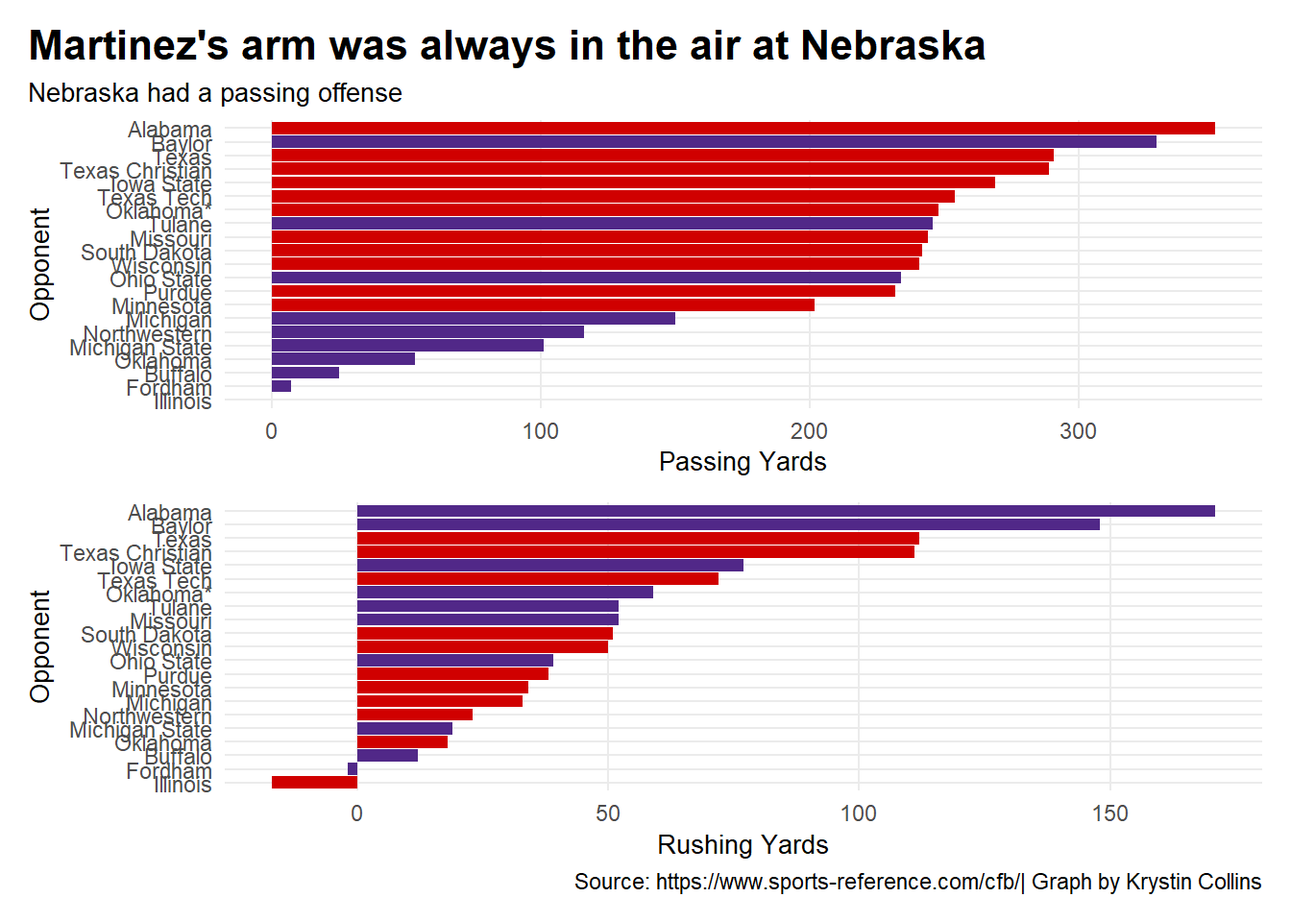
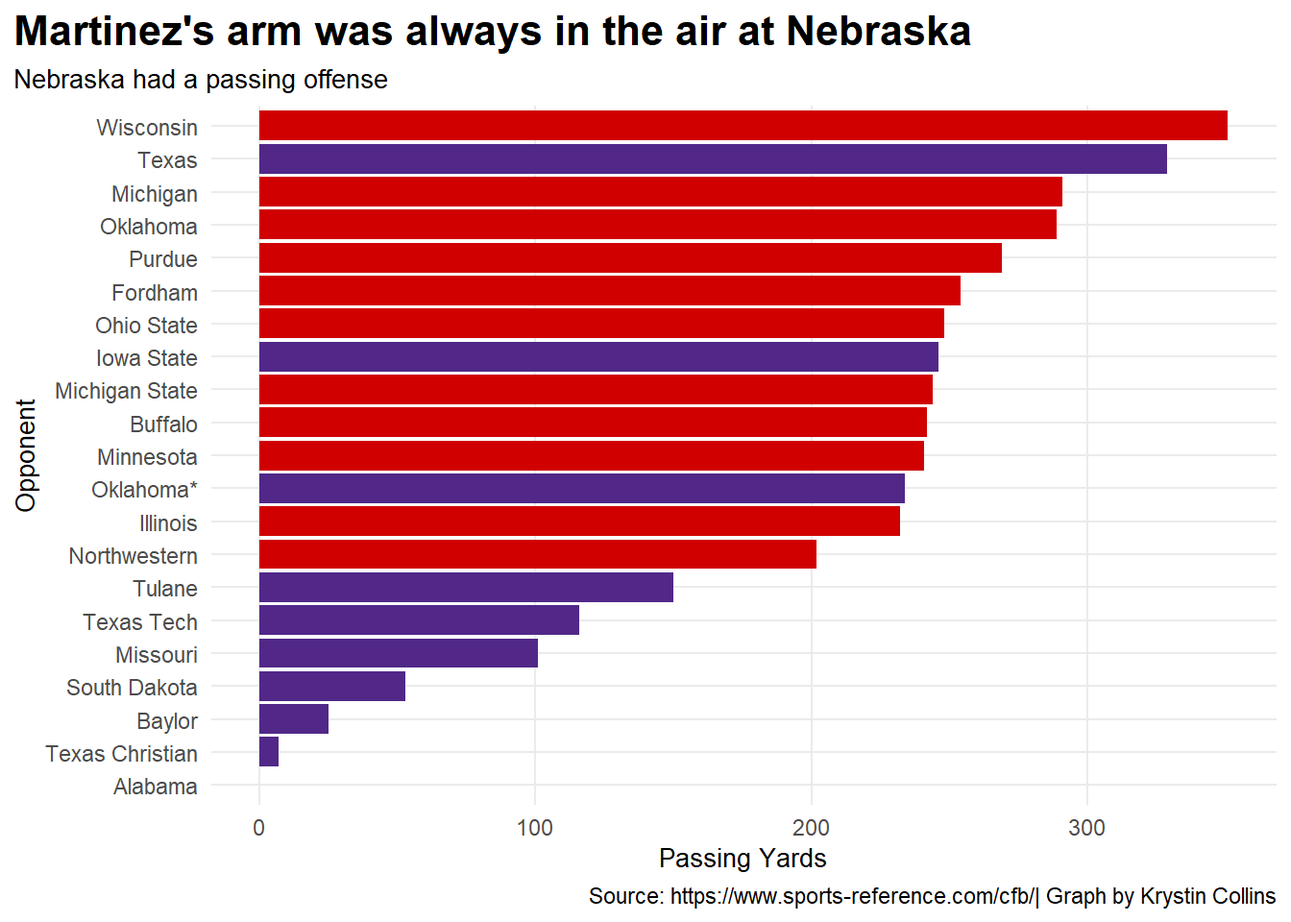
send

diff --git a/posts/adrians-move-from-nebraska/index.html b/posts/adrians-move-from-nebraska/index.html
@@ -274,18 +274,18 @@ pre > code.sourceCode > span > a:first-child::before { text-decoration: underlin
 <span id="cb2-9"><a href="#cb2-9" aria-hidden="true" tabindex="-1"></a>  <span class="fu">filter</span>(</span>
 <span id="cb2-10"><a href="#cb2-10" aria-hidden="true" tabindex="-1"></a>    School <span class="sc">==</span> <span class="st">"Nebraska"</span>)</span>
 <span id="cb2-11"><a href="#cb2-11" aria-hidden="true" tabindex="-1"></a></span>
-<span id="cb2-12"><a href="#cb2-12" aria-hidden="true" tabindex="-1"></a>passingbar <span class="ot">&lt;-</span><span class="fu">ggplot</span>() <span class="sc">+</span></span>
+<span id="cb2-12"><a href="#cb2-12" aria-hidden="true" tabindex="-1"></a><span class="fu">ggplot</span>() <span class="sc">+</span></span>
 <span id="cb2-13"><a href="#cb2-13" aria-hidden="true" tabindex="-1"></a>  <span class="fu">geom_bar</span>(</span>
 <span id="cb2-14"><a href="#cb2-14" aria-hidden="true" tabindex="-1"></a>    <span class="at">data =</span> combined, <span class="fu">aes</span>(<span class="at">x =</span> <span class="fu">reorder</span>(Opponent, PassYds), <span class="at">weight =</span> PassYds), <span class="at">fill=</span><span class="st">"#512888"</span>) <span class="sc">+</span></span>
-<span id="cb2-15"><a href="#cb2-15" aria-hidden="true" tabindex="-1"></a>  <span class="fu">scale_x_discrete</span>(<span class="at">labels =</span> combined<span class="sc">$</span>Opponent) <span class="sc">+</span></span>
-<span id="cb2-16"><a href="#cb2-16" aria-hidden="true" tabindex="-1"></a>  <span class="fu">geom_bar</span>(</span>
-<span id="cb2-17"><a href="#cb2-17" aria-hidden="true" tabindex="-1"></a>    <span class="at">data =</span> bar21, <span class="fu">aes</span>(<span class="at">x =</span> <span class="fu">reorder</span>(Opponent, PassYds), <span class="at">weight =</span> PassYds), <span class="at">fill=</span><span class="st">"#d00000"</span>) <span class="sc">+</span></span>
-<span id="cb2-18"><a href="#cb2-18" aria-hidden="true" tabindex="-1"></a>  <span class="fu">coord_flip</span>() <span class="sc">+</span></span>
-<span id="cb2-19"><a href="#cb2-19" aria-hidden="true" tabindex="-1"></a>  <span class="fu">labs</span>(</span>
-<span id="cb2-20"><a href="#cb2-20" aria-hidden="true" tabindex="-1"></a>    <span class="at">title =</span> <span class="st">"Martinez's arm was always in the air at Nebraska"</span>, </span>
-<span id="cb2-21"><a href="#cb2-21" aria-hidden="true" tabindex="-1"></a>    <span class="at">subtitle =</span> <span class="st">"Nebraska had a passing offense"</span>,</span>
-<span id="cb2-22"><a href="#cb2-22" aria-hidden="true" tabindex="-1"></a>    <span class="at">x =</span> <span class="st">"Opponent"</span>, </span>
-<span id="cb2-23"><a href="#cb2-23" aria-hidden="true" tabindex="-1"></a>    <span class="at">y =</span> <span class="st">"Passing Yards"</span></span>
+<span id="cb2-15"><a href="#cb2-15" aria-hidden="true" tabindex="-1"></a>  <span class="fu">geom_bar</span>(</span>
+<span id="cb2-16"><a href="#cb2-16" aria-hidden="true" tabindex="-1"></a>    <span class="at">data =</span> bar21, <span class="fu">aes</span>(<span class="at">x =</span> <span class="fu">reorder</span>(Opponent, PassYds), <span class="at">weight =</span> PassYds), <span class="at">fill=</span><span class="st">"#d00000"</span>) <span class="sc">+</span></span>
+<span id="cb2-17"><a href="#cb2-17" aria-hidden="true" tabindex="-1"></a>  <span class="fu">coord_flip</span>() <span class="sc">+</span></span>
+<span id="cb2-18"><a href="#cb2-18" aria-hidden="true" tabindex="-1"></a>  <span class="fu">labs</span>(</span>
+<span id="cb2-19"><a href="#cb2-19" aria-hidden="true" tabindex="-1"></a>    <span class="at">title =</span> <span class="st">"Martinez's arm was always in the air at Nebraska"</span>, </span>
+<span id="cb2-20"><a href="#cb2-20" aria-hidden="true" tabindex="-1"></a>    <span class="at">subtitle =</span> <span class="st">"Nebraska had a passing offense"</span>,</span>
+<span id="cb2-21"><a href="#cb2-21" aria-hidden="true" tabindex="-1"></a>    <span class="at">x =</span> <span class="st">"Opponent"</span>, </span>
+<span id="cb2-22"><a href="#cb2-22" aria-hidden="true" tabindex="-1"></a>    <span class="at">y =</span> <span class="st">"Passing Yards"</span>,</span>
+<span id="cb2-23"><a href="#cb2-23" aria-hidden="true" tabindex="-1"></a>    <span class="at">caption =</span> <span class="st">"Source: https://www.sports-reference.com/cfb/| Graph by Krystin Collins"</span></span>
 <span id="cb2-24"><a href="#cb2-24" aria-hidden="true" tabindex="-1"></a>  ) <span class="sc">+</span>  </span>
 <span id="cb2-25"><a href="#cb2-25" aria-hidden="true" tabindex="-1"></a>  <span class="fu">theme_minimal</span>() <span class="sc">+</span></span>
 <span id="cb2-26"><a href="#cb2-26" aria-hidden="true" tabindex="-1"></a>  <span class="fu">theme</span>(</span>
@@ -294,29 +294,7 @@ pre > code.sourceCode > span > a:first-child::before { text-decoration: underlin
 <span id="cb2-29"><a href="#cb2-29" aria-hidden="true" tabindex="-1"></a>    <span class="at">axis.title =</span> <span class="fu">element_text</span>(<span class="at">size =</span> <span class="dv">10</span>),</span>
 <span id="cb2-30"><a href="#cb2-30" aria-hidden="true" tabindex="-1"></a>    <span class="at">panel.grid.minor =</span> <span class="fu">element_blank</span>(),</span>
 <span id="cb2-31"><a href="#cb2-31" aria-hidden="true" tabindex="-1"></a>    <span class="at">plot.title.position =</span> <span class="st">"plot"</span></span>
-<span id="cb2-32"><a href="#cb2-32" aria-hidden="true" tabindex="-1"></a>  )</span>
-<span id="cb2-33"><a href="#cb2-33" aria-hidden="true" tabindex="-1"></a></span>
-<span id="cb2-34"><a href="#cb2-34" aria-hidden="true" tabindex="-1"></a>rushingbar <span class="ot">&lt;-</span> <span class="fu">ggplot</span>() <span class="sc">+</span></span>
-<span id="cb2-35"><a href="#cb2-35" aria-hidden="true" tabindex="-1"></a>  <span class="fu">geom_bar</span>(</span>
-<span id="cb2-36"><a href="#cb2-36" aria-hidden="true" tabindex="-1"></a>    <span class="at">data =</span> combined, <span class="fu">aes</span>(<span class="at">x =</span> <span class="fu">reorder</span>(Opponent, RushYds), <span class="at">weight =</span> RushYds), <span class="at">fill=</span><span class="st">"#512888"</span>) <span class="sc">+</span></span>
-<span id="cb2-37"><a href="#cb2-37" aria-hidden="true" tabindex="-1"></a>  <span class="fu">scale_x_discrete</span>(<span class="at">labels =</span> combined<span class="sc">$</span>Opponent) <span class="sc">+</span></span>
-<span id="cb2-38"><a href="#cb2-38" aria-hidden="true" tabindex="-1"></a>  <span class="fu">geom_bar</span>(</span>
-<span id="cb2-39"><a href="#cb2-39" aria-hidden="true" tabindex="-1"></a>    <span class="at">data =</span> bar21, <span class="fu">aes</span>(<span class="at">x =</span> <span class="fu">reorder</span>(Opponent, RushYds), <span class="at">weight =</span> RushYds), <span class="at">fill=</span><span class="st">"#d00000"</span>) <span class="sc">+</span></span>
-<span id="cb2-40"><a href="#cb2-40" aria-hidden="true" tabindex="-1"></a>  <span class="fu">coord_flip</span>() <span class="sc">+</span></span>
-<span id="cb2-41"><a href="#cb2-41" aria-hidden="true" tabindex="-1"></a>  <span class="fu">labs</span>(</span>
-<span id="cb2-42"><a href="#cb2-42" aria-hidden="true" tabindex="-1"></a>    <span class="at">x =</span> <span class="st">"Opponent"</span>, </span>
-<span id="cb2-43"><a href="#cb2-43" aria-hidden="true" tabindex="-1"></a>    <span class="at">y =</span> <span class="st">"Rushing Yards"</span>,</span>
-<span id="cb2-44"><a href="#cb2-44" aria-hidden="true" tabindex="-1"></a>    <span class="at">caption =</span> <span class="st">"Source: https://www.sports-reference.com/cfb/| Graph by Krystin Collins"</span></span>
-<span id="cb2-45"><a href="#cb2-45" aria-hidden="true" tabindex="-1"></a>  ) <span class="sc">+</span>  </span>
-<span id="cb2-46"><a href="#cb2-46" aria-hidden="true" tabindex="-1"></a>  <span class="fu">theme_minimal</span>() <span class="sc">+</span></span>
-<span id="cb2-47"><a href="#cb2-47" aria-hidden="true" tabindex="-1"></a>  <span class="fu">theme</span>(</span>
-<span id="cb2-48"><a href="#cb2-48" aria-hidden="true" tabindex="-1"></a>    <span class="at">plot.title =</span> <span class="fu">element_text</span>(<span class="at">size =</span> <span class="dv">16</span>, <span class="at">face =</span> <span class="st">"bold"</span>),</span>
-<span id="cb2-49"><a href="#cb2-49" aria-hidden="true" tabindex="-1"></a>    <span class="at">plot.subtitle =</span> <span class="fu">element_text</span>(<span class="at">size =</span> <span class="dv">10</span>),</span>
-<span id="cb2-50"><a href="#cb2-50" aria-hidden="true" tabindex="-1"></a>    <span class="at">axis.title =</span> <span class="fu">element_text</span>(<span class="at">size =</span> <span class="dv">10</span>),</span>
-<span id="cb2-51"><a href="#cb2-51" aria-hidden="true" tabindex="-1"></a>    <span class="at">panel.grid.minor =</span> <span class="fu">element_blank</span>()</span>
-<span id="cb2-52"><a href="#cb2-52" aria-hidden="true" tabindex="-1"></a>  )</span>
-<span id="cb2-53"><a href="#cb2-53" aria-hidden="true" tabindex="-1"></a></span>
-<span id="cb2-54"><a href="#cb2-54" aria-hidden="true" tabindex="-1"></a>(passingbar <span class="sc">/</span> rushingbar)</span></code><button title="Copy to Clipboard" class="code-copy-button"><i class="bi"></i></button></pre></div>
+<span id="cb2-32"><a href="#cb2-32" aria-hidden="true" tabindex="-1"></a>  )</span></code><button title="Copy to Clipboard" class="code-copy-button"><i class="bi"></i></button></pre></div>
 </details>
 <div class="cell-output-display">
 <div>
@@ -326,55 +304,89 @@ pre > code.sourceCode > span > a:first-child::before { text-decoration: underlin
 </div>
 </div>
 </div>
-<p>Now let’s look at who was the better team overall…</p>
+<p>Nebraska liked to throw the ball on offensive. Martinez threw for 351 yards again Alabama in game</p>
 <div class="cell">
 <details class="code-fold">
 <summary>Code</summary>
-<div class="sourceCode cell-code" id="cb3"><pre class="sourceCode r code-with-copy"><code class="sourceCode r"><span id="cb3-1"><a href="#cb3-1" aria-hidden="true" tabindex="-1"></a>nu <span class="ot">&lt;-</span> <span class="fu">read_csv</span>(<span class="st">"data/nebraska2022.csv"</span>)</span>
-<span id="cb3-2"><a href="#cb3-2" aria-hidden="true" tabindex="-1"></a>kst <span class="ot">&lt;-</span> <span class="fu">read_csv</span>(<span class="st">"data/kstate2022.csv"</span>)</span>
-<span id="cb3-3"><a href="#cb3-3" aria-hidden="true" tabindex="-1"></a></span>
-<span id="cb3-4"><a href="#cb3-4" aria-hidden="true" tabindex="-1"></a>nutotalyards <span class="ot">&lt;-</span> nu <span class="sc">|&gt;</span></span>
-<span id="cb3-5"><a href="#cb3-5" aria-hidden="true" tabindex="-1"></a>  <span class="fu">mutate</span>(</span>
-<span id="cb3-6"><a href="#cb3-6" aria-hidden="true" tabindex="-1"></a>    <span class="at">totalyds =</span> PassYds <span class="sc">+</span> RushYds)</span>
-<span id="cb3-7"><a href="#cb3-7" aria-hidden="true" tabindex="-1"></a></span>
-<span id="cb3-8"><a href="#cb3-8" aria-hidden="true" tabindex="-1"></a>ksttotalyards <span class="ot">&lt;-</span> kst <span class="sc">|&gt;</span></span>
-<span id="cb3-9"><a href="#cb3-9" aria-hidden="true" tabindex="-1"></a>  <span class="fu">mutate</span>(</span>
-<span id="cb3-10"><a href="#cb3-10" aria-hidden="true" tabindex="-1"></a>    <span class="at">totalyds =</span> PassYds <span class="sc">+</span> RushYds)</span>
-<span id="cb3-11"><a href="#cb3-11" aria-hidden="true" tabindex="-1"></a>  </span>
-<span id="cb3-12"><a href="#cb3-12" aria-hidden="true" tabindex="-1"></a>nutotal <span class="ot">&lt;-</span> <span class="fu">c</span>(<span class="st">"Defense"</span> <span class="ot">=</span> <span class="dv">207</span>, <span class="st">"Offense"</span> <span class="ot">=</span> <span class="dv">172</span>, <span class="dv">29</span>)</span>
-<span id="cb3-13"><a href="#cb3-13" aria-hidden="true" tabindex="-1"></a>ksttotal <span class="ot">&lt;-</span> <span class="fu">c</span>(<span class="st">"Defense"</span> <span class="ot">=</span> <span class="dv">186</span>, <span class="st">"Offense"</span> <span class="ot">=</span> <span class="dv">222</span>)</span>
-<span id="cb3-14"><a href="#cb3-14" aria-hidden="true" tabindex="-1"></a></span>
-<span id="cb3-15"><a href="#cb3-15" aria-hidden="true" tabindex="-1"></a><span class="fu">iron</span>(</span>
-<span id="cb3-16"><a href="#cb3-16" aria-hidden="true" tabindex="-1"></a>  <span class="fu">waffle</span>(</span>
-<span id="cb3-17"><a href="#cb3-17" aria-hidden="true" tabindex="-1"></a>  ksttotal, </span>
-<span id="cb3-18"><a href="#cb3-18" aria-hidden="true" tabindex="-1"></a>  <span class="at">rows =</span> <span class="dv">10</span>, </span>
-<span id="cb3-19"><a href="#cb3-19" aria-hidden="true" tabindex="-1"></a>  <span class="at">title =</span> <span class="st">""</span>, </span>
-<span id="cb3-20"><a href="#cb3-20" aria-hidden="true" tabindex="-1"></a>  <span class="at">colors =</span> <span class="fu">c</span>(<span class="st">"black"</span>, <span class="st">"purple"</span>)</span>
-<span id="cb3-21"><a href="#cb3-21" aria-hidden="true" tabindex="-1"></a>) <span class="sc">+</span></span>
-<span id="cb3-22"><a href="#cb3-22" aria-hidden="true" tabindex="-1"></a>  <span class="fu">labs</span>(</span>
-<span id="cb3-23"><a href="#cb3-23" aria-hidden="true" tabindex="-1"></a>    <span class="at">title =</span> <span class="st">"Kansas State was the better team in 2022"</span>,</span>
-<span id="cb3-24"><a href="#cb3-24" aria-hidden="true" tabindex="-1"></a>    <span class="at">subtitle =</span> <span class="st">"The goal is more offensive yards and less defensive yards"</span></span>
-<span id="cb3-25"><a href="#cb3-25" aria-hidden="true" tabindex="-1"></a>  ) <span class="sc">+</span></span>
-<span id="cb3-26"><a href="#cb3-26" aria-hidden="true" tabindex="-1"></a>  <span class="fu">theme</span>(</span>
-<span id="cb3-27"><a href="#cb3-27" aria-hidden="true" tabindex="-1"></a>    <span class="at">plot.title =</span> <span class="fu">element_text</span>(<span class="at">size =</span> <span class="dv">16</span>, <span class="at">face =</span> <span class="st">"bold"</span>),</span>
-<span id="cb3-28"><a href="#cb3-28" aria-hidden="true" tabindex="-1"></a>    <span class="at">axis.title =</span> <span class="fu">element_text</span>(<span class="at">size =</span> <span class="dv">8</span>),</span>
-<span id="cb3-29"><a href="#cb3-29" aria-hidden="true" tabindex="-1"></a>    <span class="at">plot.subtitle =</span> <span class="fu">element_text</span>(<span class="at">size =</span> <span class="dv">10</span>)),</span>
-<span id="cb3-30"><a href="#cb3-30" aria-hidden="true" tabindex="-1"></a>  <span class="fu">waffle</span>(</span>
-<span id="cb3-31"><a href="#cb3-31" aria-hidden="true" tabindex="-1"></a>  nutotal, </span>
-<span id="cb3-32"><a href="#cb3-32" aria-hidden="true" tabindex="-1"></a>  <span class="at">rows =</span> <span class="dv">10</span>, </span>
-<span id="cb3-33"><a href="#cb3-33" aria-hidden="true" tabindex="-1"></a>  <span class="at">xlab =</span> <span class="st">"1 square = 2 yards"</span>, </span>
-<span id="cb3-34"><a href="#cb3-34" aria-hidden="true" tabindex="-1"></a>  <span class="at">colors =</span> <span class="fu">c</span>(<span class="st">"black"</span>, <span class="st">"red"</span>, <span class="st">"white"</span>)</span>
-<span id="cb3-35"><a href="#cb3-35" aria-hidden="true" tabindex="-1"></a>) <span class="sc">+</span></span>
-<span id="cb3-36"><a href="#cb3-36" aria-hidden="true" tabindex="-1"></a>  <span class="fu">labs</span>(</span>
-<span id="cb3-37"><a href="#cb3-37" aria-hidden="true" tabindex="-1"></a>    <span class="at">caption =</span> <span class="st">"Source: https://www.sports-reference.com/cfb/| Graph by Krystin Collins"</span></span>
-<span id="cb3-38"><a href="#cb3-38" aria-hidden="true" tabindex="-1"></a>  )</span>
-<span id="cb3-39"><a href="#cb3-39" aria-hidden="true" tabindex="-1"></a>) <span class="sc">+</span></span>
-<span id="cb3-40"><a href="#cb3-40" aria-hidden="true" tabindex="-1"></a>  <span class="fu">theme_minimal</span>() </span></code><button title="Copy to Clipboard" class="code-copy-button"><i class="bi"></i></button></pre></div>
+<div class="sourceCode cell-code" id="cb3"><pre class="sourceCode r code-with-copy"><code class="sourceCode r"><span id="cb3-1"><a href="#cb3-1" aria-hidden="true" tabindex="-1"></a><span class="fu">ggplot</span>() <span class="sc">+</span></span>
+<span id="cb3-2"><a href="#cb3-2" aria-hidden="true" tabindex="-1"></a>  <span class="fu">geom_bar</span>(</span>
+<span id="cb3-3"><a href="#cb3-3" aria-hidden="true" tabindex="-1"></a>    <span class="at">data =</span> combined, <span class="fu">aes</span>(<span class="at">x =</span> <span class="fu">reorder</span>(Opponent, RushYds), <span class="at">weight =</span> RushYds), <span class="at">fill=</span><span class="st">"#512888"</span>) <span class="sc">+</span></span>
+<span id="cb3-4"><a href="#cb3-4" aria-hidden="true" tabindex="-1"></a>  <span class="fu">geom_bar</span>(</span>
+<span id="cb3-5"><a href="#cb3-5" aria-hidden="true" tabindex="-1"></a>    <span class="at">data =</span> bar21, <span class="fu">aes</span>(<span class="at">x =</span> <span class="fu">reorder</span>(Opponent, RushYds), <span class="at">weight =</span> RushYds), <span class="at">fill=</span><span class="st">"#d00000"</span>) <span class="sc">+</span></span>
+<span id="cb3-6"><a href="#cb3-6" aria-hidden="true" tabindex="-1"></a>  <span class="fu">coord_flip</span>() <span class="sc">+</span></span>
+<span id="cb3-7"><a href="#cb3-7" aria-hidden="true" tabindex="-1"></a>  <span class="fu">labs</span>(</span>
+<span id="cb3-8"><a href="#cb3-8" aria-hidden="true" tabindex="-1"></a>    <span class="at">x =</span> <span class="st">"Opponent"</span>, </span>
+<span id="cb3-9"><a href="#cb3-9" aria-hidden="true" tabindex="-1"></a>    <span class="at">y =</span> <span class="st">"Rushing Yards"</span>,</span>
+<span id="cb3-10"><a href="#cb3-10" aria-hidden="true" tabindex="-1"></a>    <span class="at">title =</span> <span class="st">"Martinez's hit the ground running at Kansas State"</span>, </span>
+<span id="cb3-11"><a href="#cb3-11" aria-hidden="true" tabindex="-1"></a>    <span class="at">subtitle =</span> <span class="st">"Kansas State liked to run the ball on offense"</span>,</span>
+<span id="cb3-12"><a href="#cb3-12" aria-hidden="true" tabindex="-1"></a>    <span class="at">caption =</span> <span class="st">"Source: https://www.sports-reference.com/cfb/| Graph by Krystin Collins"</span></span>
+<span id="cb3-13"><a href="#cb3-13" aria-hidden="true" tabindex="-1"></a>  ) <span class="sc">+</span>  </span>
+<span id="cb3-14"><a href="#cb3-14" aria-hidden="true" tabindex="-1"></a>  <span class="fu">theme_minimal</span>() <span class="sc">+</span></span>
+<span id="cb3-15"><a href="#cb3-15" aria-hidden="true" tabindex="-1"></a>  <span class="fu">theme</span>(</span>
+<span id="cb3-16"><a href="#cb3-16" aria-hidden="true" tabindex="-1"></a>    <span class="at">plot.title =</span> <span class="fu">element_text</span>(<span class="at">size =</span> <span class="dv">16</span>, <span class="at">face =</span> <span class="st">"bold"</span>),</span>
+<span id="cb3-17"><a href="#cb3-17" aria-hidden="true" tabindex="-1"></a>    <span class="at">plot.subtitle =</span> <span class="fu">element_text</span>(<span class="at">size =</span> <span class="dv">10</span>),</span>
+<span id="cb3-18"><a href="#cb3-18" aria-hidden="true" tabindex="-1"></a>    <span class="at">axis.title =</span> <span class="fu">element_text</span>(<span class="at">size =</span> <span class="dv">10</span>),</span>
+<span id="cb3-19"><a href="#cb3-19" aria-hidden="true" tabindex="-1"></a>    <span class="at">panel.grid.minor =</span> <span class="fu">element_blank</span>(),</span>
+<span id="cb3-20"><a href="#cb3-20" aria-hidden="true" tabindex="-1"></a>    <span class="at">plot.title.position =</span> <span class="st">"plot"</span></span>
+<span id="cb3-21"><a href="#cb3-21" aria-hidden="true" tabindex="-1"></a>  )</span></code><button title="Copy to Clipboard" class="code-copy-button"><i class="bi"></i></button></pre></div>
 </details>
 <div class="cell-output-display">
 <div>
 <figure class="figure">
 <p><img src="index_files/figure-html/unnamed-chunk-4-1.png" class="img-fluid figure-img" width="672"></p>
+</figure>
+</div>
+</div>
+</div>
+<p>Now let’s look at who was the better team overall…</p>
+<div class="cell">
+<details class="code-fold">
+<summary>Code</summary>
+<div class="sourceCode cell-code" id="cb4"><pre class="sourceCode r code-with-copy"><code class="sourceCode r"><span id="cb4-1"><a href="#cb4-1" aria-hidden="true" tabindex="-1"></a>nu <span class="ot">&lt;-</span> <span class="fu">read_csv</span>(<span class="st">"data/nebraska2022.csv"</span>)</span>
+<span id="cb4-2"><a href="#cb4-2" aria-hidden="true" tabindex="-1"></a>kst <span class="ot">&lt;-</span> <span class="fu">read_csv</span>(<span class="st">"data/kstate2022.csv"</span>)</span>
+<span id="cb4-3"><a href="#cb4-3" aria-hidden="true" tabindex="-1"></a></span>
+<span id="cb4-4"><a href="#cb4-4" aria-hidden="true" tabindex="-1"></a>nutotalyards <span class="ot">&lt;-</span> nu <span class="sc">|&gt;</span></span>
+<span id="cb4-5"><a href="#cb4-5" aria-hidden="true" tabindex="-1"></a>  <span class="fu">mutate</span>(</span>
+<span id="cb4-6"><a href="#cb4-6" aria-hidden="true" tabindex="-1"></a>    <span class="at">totalyds =</span> PassYds <span class="sc">+</span> RushYds)</span>
+<span id="cb4-7"><a href="#cb4-7" aria-hidden="true" tabindex="-1"></a></span>
+<span id="cb4-8"><a href="#cb4-8" aria-hidden="true" tabindex="-1"></a>ksttotalyards <span class="ot">&lt;-</span> kst <span class="sc">|&gt;</span></span>
+<span id="cb4-9"><a href="#cb4-9" aria-hidden="true" tabindex="-1"></a>  <span class="fu">mutate</span>(</span>
+<span id="cb4-10"><a href="#cb4-10" aria-hidden="true" tabindex="-1"></a>    <span class="at">totalyds =</span> PassYds <span class="sc">+</span> RushYds)</span>
+<span id="cb4-11"><a href="#cb4-11" aria-hidden="true" tabindex="-1"></a>  </span>
+<span id="cb4-12"><a href="#cb4-12" aria-hidden="true" tabindex="-1"></a>nutotal <span class="ot">&lt;-</span> <span class="fu">c</span>(<span class="st">"Defense"</span> <span class="ot">=</span> <span class="dv">207</span>, <span class="st">"Offense"</span> <span class="ot">=</span> <span class="dv">172</span>, <span class="dv">29</span>)</span>
+<span id="cb4-13"><a href="#cb4-13" aria-hidden="true" tabindex="-1"></a>ksttotal <span class="ot">&lt;-</span> <span class="fu">c</span>(<span class="st">"Defense"</span> <span class="ot">=</span> <span class="dv">186</span>, <span class="st">"Offense"</span> <span class="ot">=</span> <span class="dv">222</span>)</span>
+<span id="cb4-14"><a href="#cb4-14" aria-hidden="true" tabindex="-1"></a></span>
+<span id="cb4-15"><a href="#cb4-15" aria-hidden="true" tabindex="-1"></a><span class="fu">iron</span>(</span>
+<span id="cb4-16"><a href="#cb4-16" aria-hidden="true" tabindex="-1"></a>  <span class="fu">waffle</span>(</span>
+<span id="cb4-17"><a href="#cb4-17" aria-hidden="true" tabindex="-1"></a>  ksttotal, </span>
+<span id="cb4-18"><a href="#cb4-18" aria-hidden="true" tabindex="-1"></a>  <span class="at">rows =</span> <span class="dv">10</span>, </span>
+<span id="cb4-19"><a href="#cb4-19" aria-hidden="true" tabindex="-1"></a>  <span class="at">title =</span> <span class="st">""</span>, </span>
+<span id="cb4-20"><a href="#cb4-20" aria-hidden="true" tabindex="-1"></a>  <span class="at">colors =</span> <span class="fu">c</span>(<span class="st">"black"</span>, <span class="st">"purple"</span>)</span>
+<span id="cb4-21"><a href="#cb4-21" aria-hidden="true" tabindex="-1"></a>) <span class="sc">+</span></span>
+<span id="cb4-22"><a href="#cb4-22" aria-hidden="true" tabindex="-1"></a>  <span class="fu">labs</span>(</span>
+<span id="cb4-23"><a href="#cb4-23" aria-hidden="true" tabindex="-1"></a>    <span class="at">title =</span> <span class="st">"Kansas State was the better team in 2022"</span>,</span>
+<span id="cb4-24"><a href="#cb4-24" aria-hidden="true" tabindex="-1"></a>    <span class="at">subtitle =</span> <span class="st">"The goal is more offensive yards and less defensive yards"</span></span>
+<span id="cb4-25"><a href="#cb4-25" aria-hidden="true" tabindex="-1"></a>  ) <span class="sc">+</span></span>
+<span id="cb4-26"><a href="#cb4-26" aria-hidden="true" tabindex="-1"></a>  <span class="fu">theme</span>(</span>
+<span id="cb4-27"><a href="#cb4-27" aria-hidden="true" tabindex="-1"></a>    <span class="at">plot.title =</span> <span class="fu">element_text</span>(<span class="at">size =</span> <span class="dv">16</span>, <span class="at">face =</span> <span class="st">"bold"</span>),</span>
+<span id="cb4-28"><a href="#cb4-28" aria-hidden="true" tabindex="-1"></a>    <span class="at">axis.title =</span> <span class="fu">element_text</span>(<span class="at">size =</span> <span class="dv">8</span>),</span>
+<span id="cb4-29"><a href="#cb4-29" aria-hidden="true" tabindex="-1"></a>    <span class="at">plot.subtitle =</span> <span class="fu">element_text</span>(<span class="at">size =</span> <span class="dv">10</span>)),</span>
+<span id="cb4-30"><a href="#cb4-30" aria-hidden="true" tabindex="-1"></a>  <span class="fu">waffle</span>(</span>
+<span id="cb4-31"><a href="#cb4-31" aria-hidden="true" tabindex="-1"></a>  nutotal, </span>
+<span id="cb4-32"><a href="#cb4-32" aria-hidden="true" tabindex="-1"></a>  <span class="at">rows =</span> <span class="dv">10</span>, </span>
+<span id="cb4-33"><a href="#cb4-33" aria-hidden="true" tabindex="-1"></a>  <span class="at">xlab =</span> <span class="st">"1 square = 2 yards"</span>, </span>
+<span id="cb4-34"><a href="#cb4-34" aria-hidden="true" tabindex="-1"></a>  <span class="at">colors =</span> <span class="fu">c</span>(<span class="st">"black"</span>, <span class="st">"red"</span>, <span class="st">"white"</span>)</span>
+<span id="cb4-35"><a href="#cb4-35" aria-hidden="true" tabindex="-1"></a>) <span class="sc">+</span></span>
+<span id="cb4-36"><a href="#cb4-36" aria-hidden="true" tabindex="-1"></a>  <span class="fu">labs</span>(</span>
+<span id="cb4-37"><a href="#cb4-37" aria-hidden="true" tabindex="-1"></a>    <span class="at">caption =</span> <span class="st">"Source: https://www.sports-reference.com/cfb/| Graph by Krystin Collins"</span></span>
+<span id="cb4-38"><a href="#cb4-38" aria-hidden="true" tabindex="-1"></a>  )</span>
+<span id="cb4-39"><a href="#cb4-39" aria-hidden="true" tabindex="-1"></a>) <span class="sc">+</span></span>
+<span id="cb4-40"><a href="#cb4-40" aria-hidden="true" tabindex="-1"></a>  <span class="fu">theme_minimal</span>() </span></code><button title="Copy to Clipboard" class="code-copy-button"><i class="bi"></i></button></pre></div>
+</details>
+<div class="cell-output-display">
+<div>
+<figure class="figure">
+<p><img src="index_files/figure-html/unnamed-chunk-5-1.png" class="img-fluid figure-img" width="672"></p>
 </figure>
 </div>
 </div>

diff --git a/index.html b/index.html
@@ -210,7 +210,7 @@ window.Quarto = {
 
 <div class="quarto-listing quarto-listing-container-default" id="listing-listing">
 <div class="list quarto-listing-default">
-<div class="quarto-post image-right" data-index="0" data-categories="Zm9vdGJhbGw=" data-listing-date-sort="1731823200000" data-listing-file-modified-sort="1731698271867" data-listing-date-modified-sort="NaN" data-listing-reading-time-sort="5" data-listing-word-count-sort="962">
+<div class="quarto-post image-right" data-index="0" data-categories="Zm9vdGJhbGw=" data-listing-date-sort="1731823200000" data-listing-file-modified-sort="1731699369681" data-listing-date-modified-sort="NaN" data-listing-reading-time-sort="6" data-listing-word-count-sort="1009">
 <div class="thumbnail">
 <p><a href="./posts/adrians-move-from-nebraska/index.html" class="no-external"></a></p><a href="./posts/adrians-move-from-nebraska/index.html" class="no-external">
 <p class="card-img-top"><img src="posts\adrians-move-from-nebraska\index_files\figure-html\unnamed-chunk-1-1.png"  class="thumbnail-image card-img"/></p>
